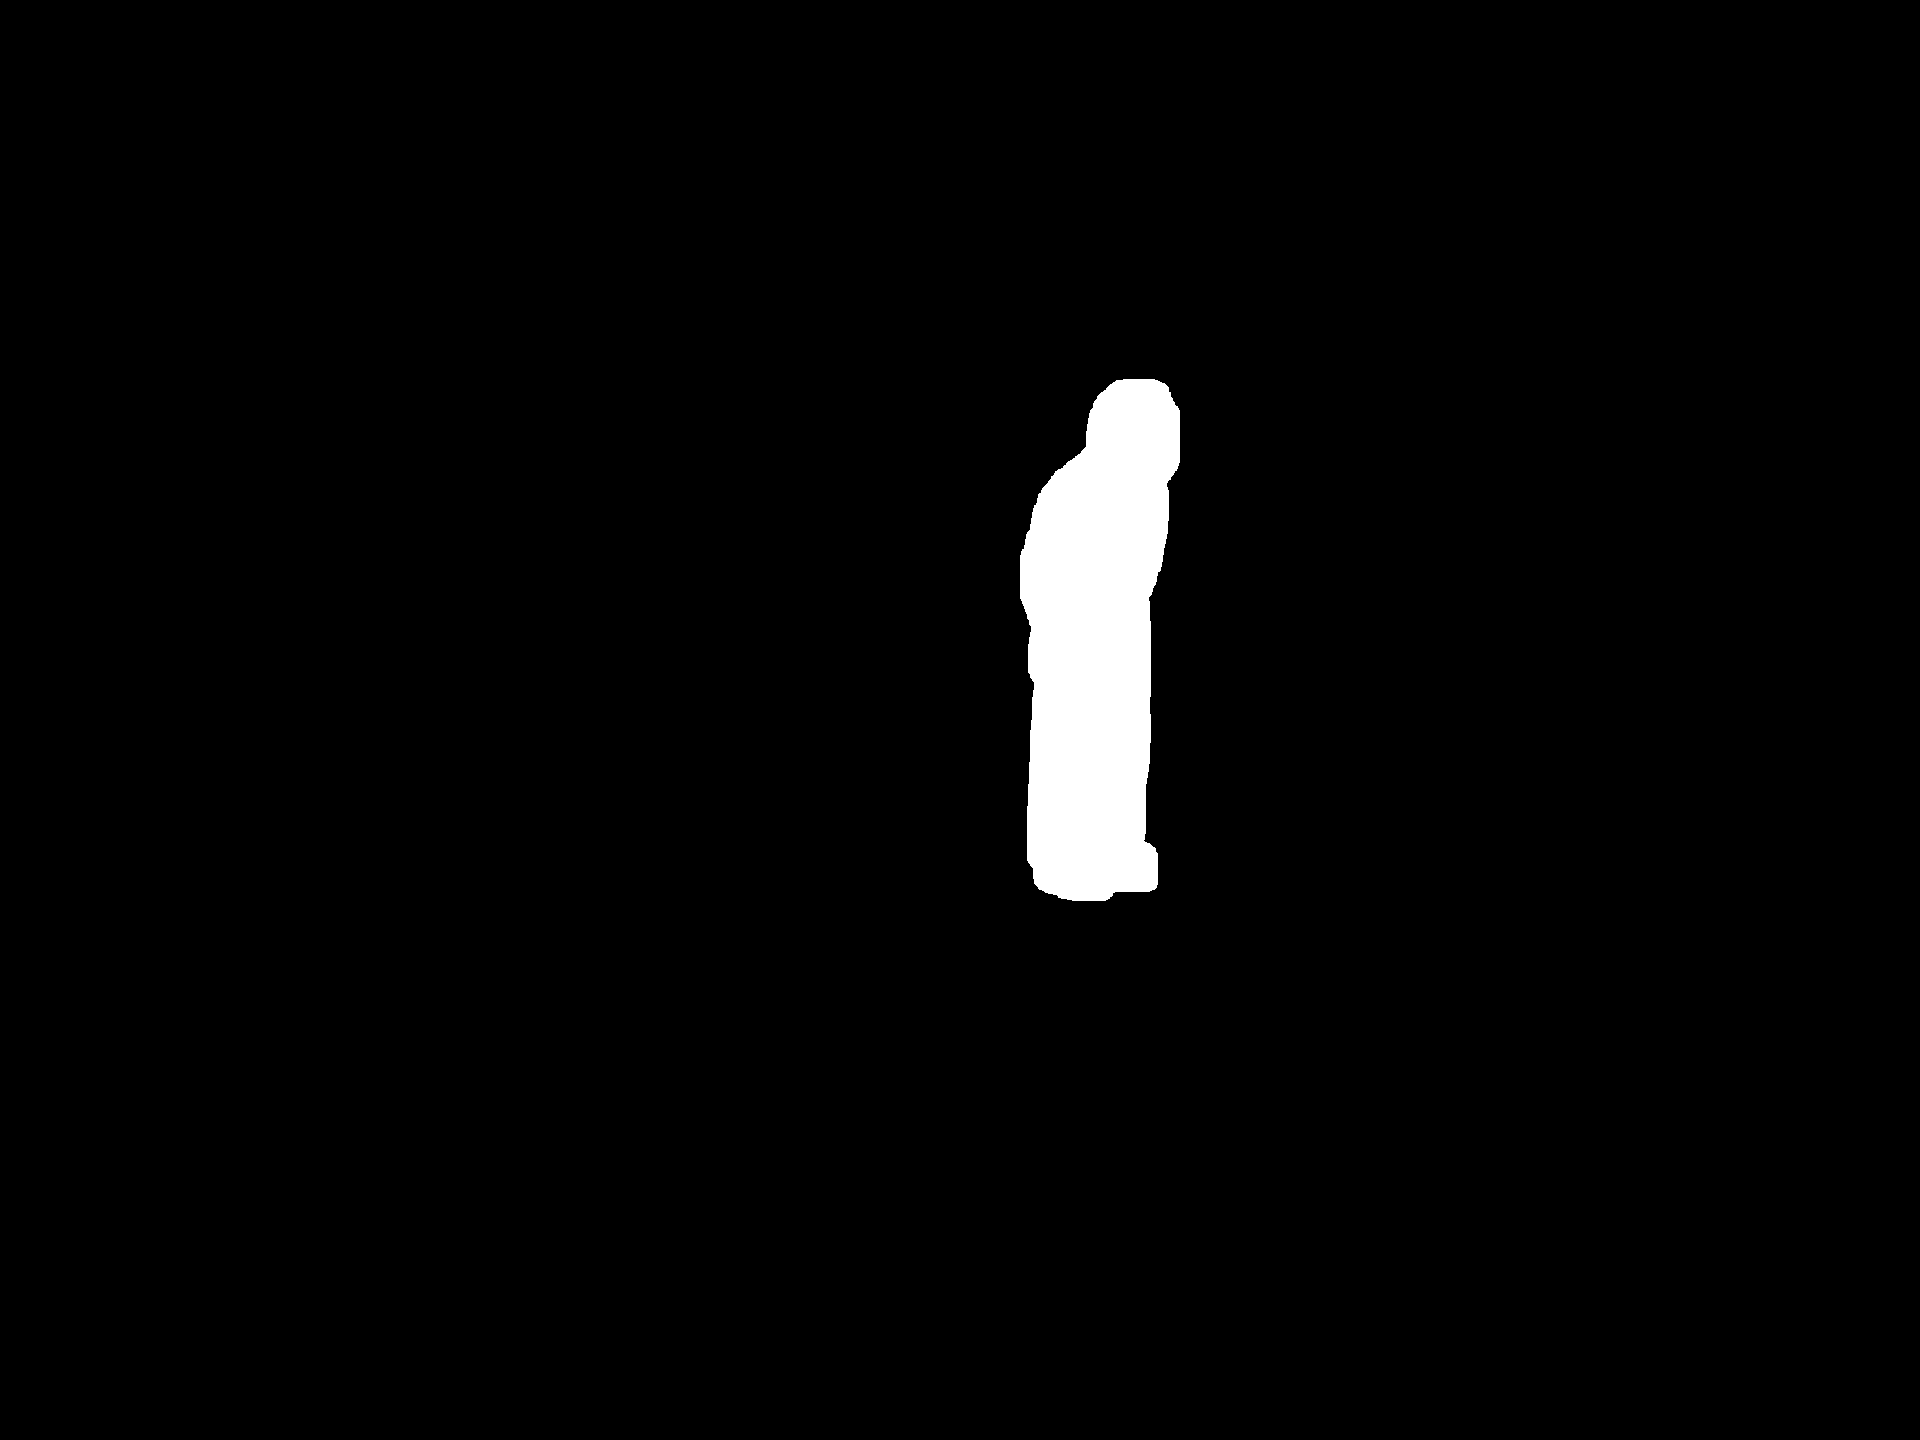
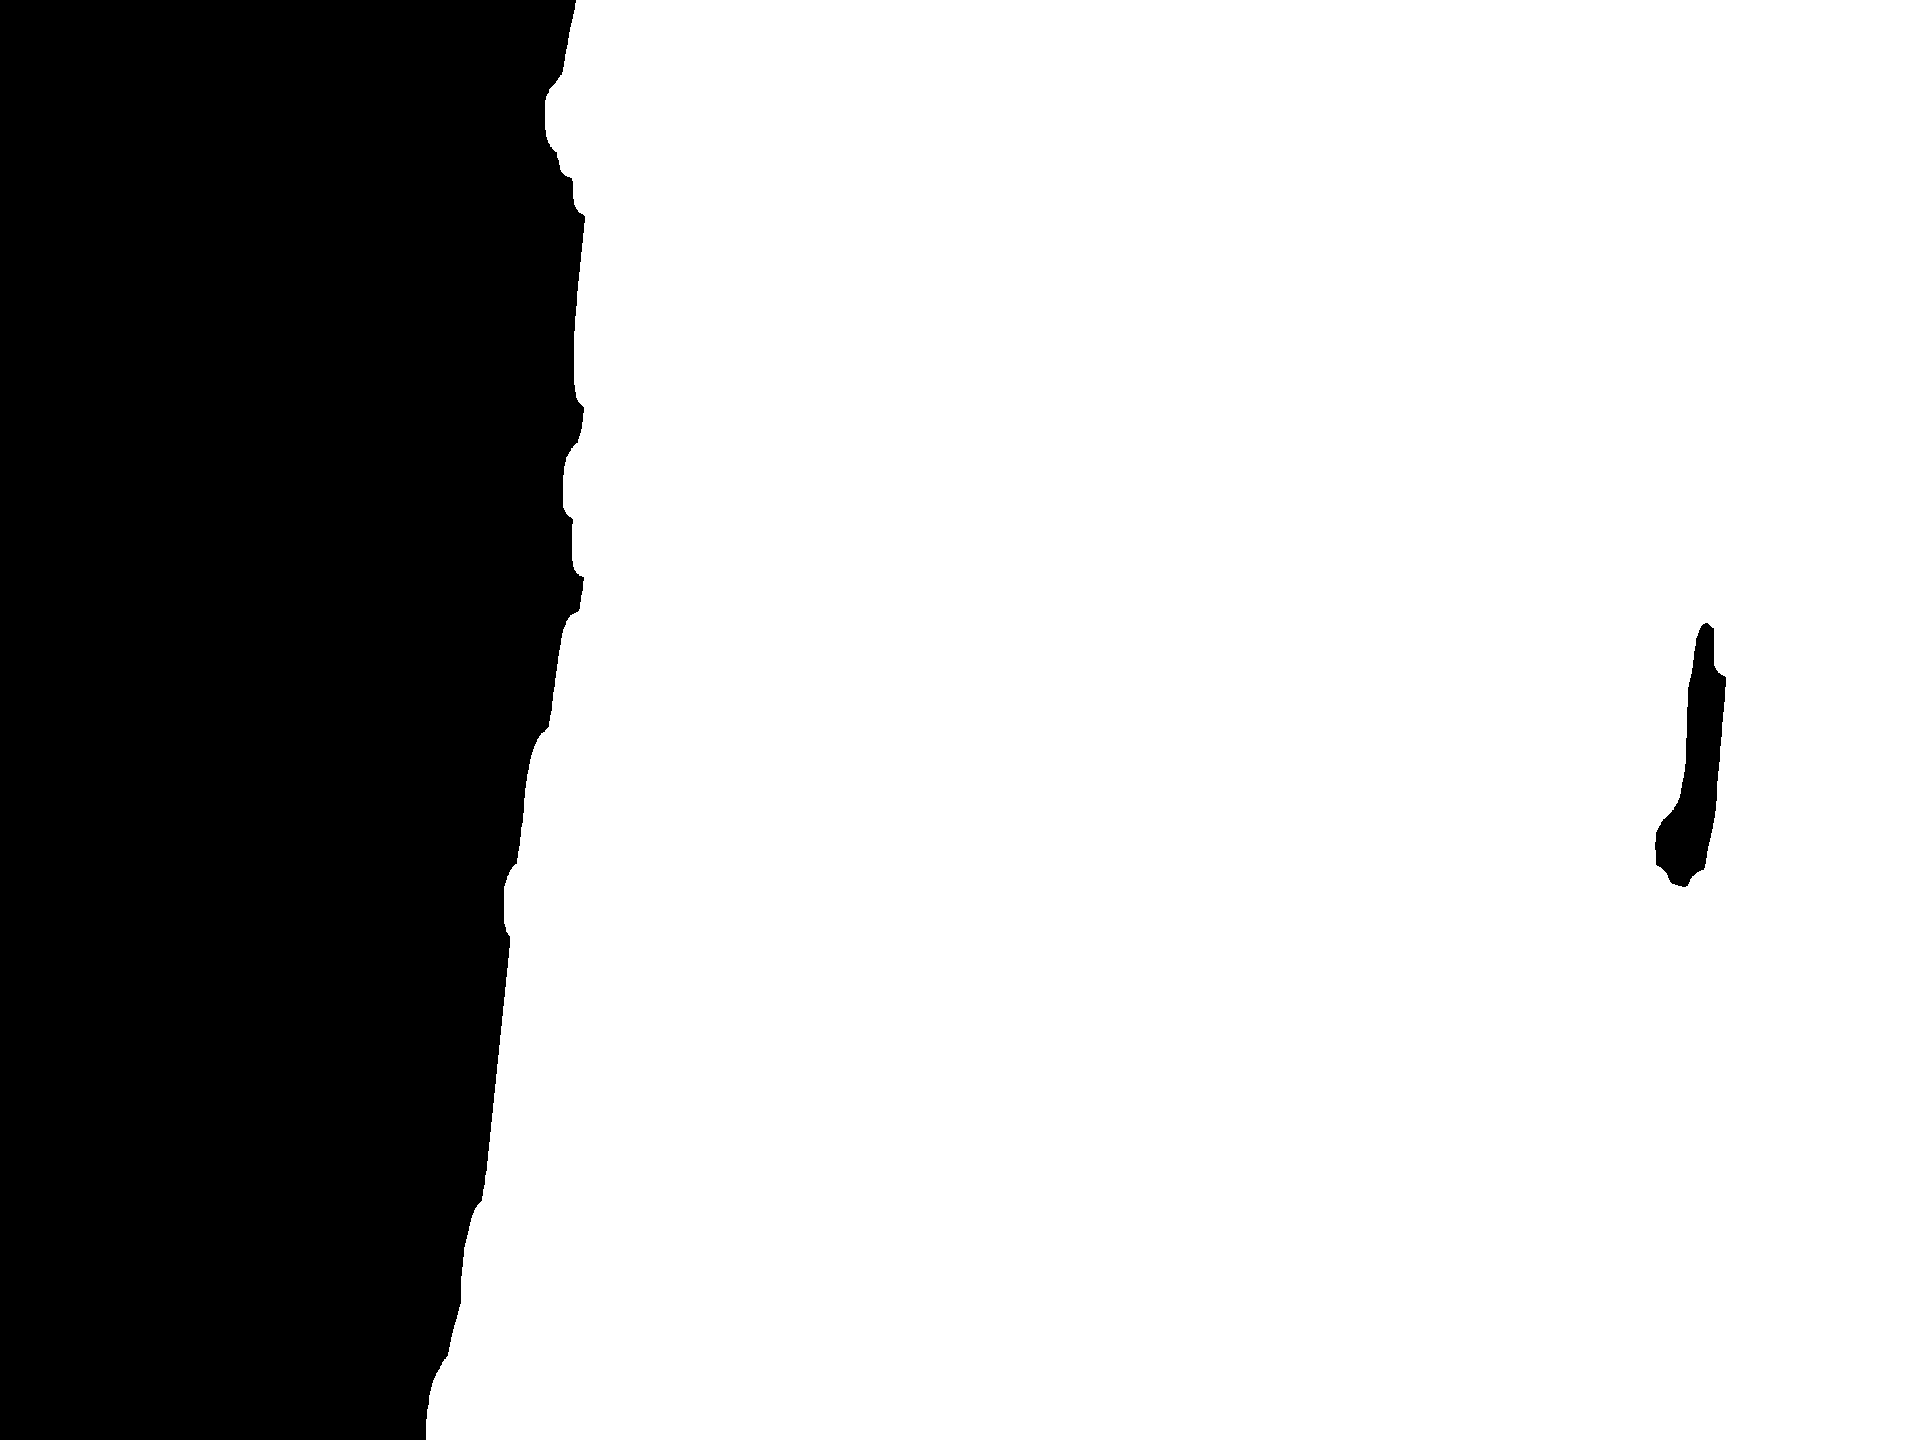
background filling classical method
added some functions and some results

diff --git a/module.py b/module.py
@@ -96,20 +96,81 @@ class poseDetector():
         found_frames = []
         one = 1
         zero = 0
+        condition = masked_image == (0,0, 255)
+        c = np.sum(condition.astype(int), 2)
+        c = np.where(c == 3, 1, 0)
+        # print(f"c: {np.sum(c)}")
+
+        # print(c.shape, c)
+        
         for i in range(1,len(list_names)+1):    
             img = cv2.imread('./data/frames_masked/masked' + str(i).zfill(3) + '.png')
-            condition = masked_image == (0,0, 255)
-            # print(condition)
-            a = img*condition
-            # print("                                              ",a)
-            if (a == [0,0,255]).any():
-                print("skipping image masked"+str(i).zfill(3) + '.png')
+            condition_img = img == (0,0, 255)
+            c_img = np.sum(condition_img.astype(int), 2)
+            c_img = np.where(c_img == 3, 1, 0)
+            # print(f"c_img: {np.sum(c_img)}")
+
+            # print(c_img.shape, c_img)
+            
+            result = np.sum(np.multiply(c, c_img))
+
+            if result > 0:
+                # print("skipping image masked"+str(i).zfill(3) + '.png')
                 found_frames.append(zero)
                 continue
             else:
-                print("                               found background in frame masked"+str(i).zfill(3) + '.png')
+                # print("                               found background in frame masked"+str(i).zfill(3) + '.png')
                 found_frames.append(one)
                 found_frames_list.append(i)
+
+            # mask1 = condition[:, :, 0].astype(int)
+            # print(mask1)
+            # print(condition)
+            # a = img*condition
+            # print("                                              ",a.reshape(-1).shape)
+            # condition2= img == (0,0,255)
+            # print(condition.shape, condition2.shape)
+            # combine = condition.all() and condition2.all()
+            # if combine.any() == True:
+            #     print("skipping image masked"+str(i).zfill(3) + '.png')
+            #     found_frames.append(zero)
+            #     continue
+            # else:
+            #     print("                               found background in frame masked"+str(i).zfill(3) + '.png')
+            #     found_frames.append(one)
+            #     found_frames_list.append(i)
+
+
+
+
+
+            # count = 0
+            # for i in range(img.shape[0]*img.shape[1]*img.shape[2]):
+            #     if (a.reshape(-1)[i] == [0,0,255]).all():
+            #         count +=1
+            # print(count)
+            
+                
+            # for l in range(a.shape[0]):
+            #     for k in range(a.shape[1]):
+            #         if (a[l][k] == [0,0,255]).all():
+            #             count +=1
+            #             # print("skipping image masked"+str(i).zfill(3) + '.png')
+            #             # found_frames.append(zero)
+            #             # continue
+            #         # else:
+            #             # print("                               found background in frame masked"+str(i).zfill(3) + '.png')
+            #             # found_frames.append(one)
+            #             # found_frames_list.append(i)
+            # print(count)
+            # if count ==0:
+            #     print("                               found background in frame masked"+str(i).zfill(3) + '.png')
+            #     found_frames.append(one)
+            #     found_frames_list.append(i)
+            # else:
+            #     print("skipping image masked"+str(i).zfill(3) + '.png')
+            #     found_frames.append(zero)
+
         return(found_frames, found_frames_list)
 
 
@@ -124,6 +185,32 @@ class poseDetector():
         Output
         1) filled_image: image with background filled in the region of interest
         '''
+        condition = image == (0,0, 255)
+        c = np.sum(condition.astype(int), 2)
+        c = np.where(c == 3, 1, 0)
+        print(c.shape)
+        cinv = np.where(c == 3, 0, 1)
+        c =np.stack((c,c,c), axis=-1)
+        print(c.shape)
+        cinv =np.stack((cinv,cinv,cinv), axis=-1)
+        image_without_target = image*cinv
+        image_without_target = image_without_target.astype(np.uint8)
+        list_bg_images =[]
+
+        j = frames_with_background[0]
+        img = cv2.imread('./data/frames_masked/masked' + str(j).zfill(3) + '.png')
+        filled_img = img*c
+        filled_img = filled_img.astype(np.uint8)
+        # for i in range(0,len(frames_with_background), 10):
+        #     print(i)
+        #     j = frames_with_background[i]
+        #     img = cv2.imread('./data/frames_masked/masked' + str(j).zfill(3) + '.png')
+        #     background_filled = img*c
+        #     list_bg_images.append(background_filled.astype(np.uint8))
+        # filled_img = np.mean(list_bg_images, axis=0).astype(np.uint8)
+        final_img = (filled_img+image_without_target).astype(np.uint8)
+        return final_img, image_without_target, list_bg_images, filled_img
+
         
     def findPosition(self, img, draw=True):
         self.lmList = []
@@ -174,35 +261,45 @@ def main():
         while True:
             success, img = cap.read()
             img, annotated_image, masked_image, masked_image_,masked_image_eroded, masked_image_black = detector.findPose(img)
-            # frames_list, frame_with_background = detector.find_frame_with_background(masked_image_eroded)
-            # print("###########################################################################################")
-            # print(frames_list, frame_with_background)
+            if i%50 == 0:   
+                print("getting frames for background ............")
+                frames_list, frame_with_background = detector.find_frame_with_background(masked_image_eroded)
+                print("##########################  number of background frames is  ###################################")
+                print( len(frame_with_background))
+                final_img, image_without_target, list_bg_images, filled_img = detector.fill_background(masked_image_eroded , frame_with_background)
+                cv2.imshow("filled image", final_img)
+                cv2.imshow("image without target", image_without_target)
+                cv2.imshow("filled_img", filled_img)
+                # cv2.imshow("list_bg_images", list_bg_images[0])
+                cv2.imwrite('./data/filled_background/filled' + str(i).zfill(3) + '.png', final_img)
+
             
             lmList = detector.findPosition(img, draw=False)
-            xlist = []
-            ylist = []
-            name = []
+            
             # print(lmList)
             
-            if len(lmList) != 0:
+            # if len(lmList) != 0:
 
-                header = [
-                            'masked'+ str(i).zfill(3) + '.png: ',
-                            '[' + str(lmList[0][1])  +', '+ str(int((lmList[11][1]+lmList[12][1])/2))    +', '+ str(lmList[12][1]) +', ' 
-                                + str(lmList[14][1]) +', '+ str(lmList[16][1]) +', '+ str(lmList[11][1]) +', '+ str(lmList[13][1]) +', ' 
-                                + str(lmList[15][1]) +', '+ str(lmList[24][1]) +', '+ str(lmList[26][1]) +', '+ str(lmList[28][1]) +', '
-                                + str(lmList[23][1]) +', '+ str(lmList[25][1]) +', '+ str(lmList[27][1]) +', '+ str(lmList[2][1])  +', '
-                                + str(lmList[5][1])  +', '+ str(lmList[7][1])  +', '+ str(lmList[8][1])  + ']: ',
-                            '[' + str(lmList[0][2])  +', '+ str(int((lmList[11][2]+lmList[12][2])/2))    +', '+ str(lmList[12][2]) +', ' 
-                                + str(lmList[14][2]) +', '+ str(lmList[16][2]) +', '+ str(lmList[11][2]) +', '+ str(lmList[13][2]) +', ' 
-                                + str(lmList[15][2]) +', '+ str(lmList[24][2]) +', '+ str(lmList[26][2]) +', '+ str(lmList[28][2]) +', '
-                                + str(lmList[23][2]) +', '+ str(lmList[25][2]) +', '+ str(lmList[27][2]) +', '+ str(lmList[2][2])  +', '
-                                + str(lmList[5][2])  +', '+ str(lmList[7][2])  +', '+ str(lmList[8][2])  + ']'  
-                            ]
+            #     header = [
+            #                 'masked'+ str(i).zfill(3) + '.png: ',
+            #                 '[' + str(lmList[0][1])  +', '+ str(int((lmList[11][1]+lmList[12][1])/2))    +', '+ str(lmList[12][1]) +', ' 
+            #                     + str(lmList[14][1]) +', '+ str(lmList[16][1]) +', '+ str(lmList[11][1]) +', '+ str(lmList[13][1]) +', ' 
+            #                     + str(lmList[15][1]) +', '+ str(lmList[24][1]) +', '+ str(lmList[26][1]) +', '+ str(lmList[28][1]) +', '
+            #                     + str(lmList[23][1]) +', '+ str(lmList[25][1]) +', '+ str(lmList[27][1]) +', '+ str(lmList[2][1])  +', '
+            #                     + str(lmList[5][1])  +', '+ str(lmList[7][1])  +', '+ str(lmList[8][1])  + ']: ',
+            #                 '[' + str(lmList[0][2])  +', '+ str(int((lmList[11][2]+lmList[12][2])/2))    +', '+ str(lmList[12][2]) +', ' 
+            #                     + str(lmList[14][2]) +', '+ str(lmList[16][2]) +', '+ str(lmList[11][2]) +', '+ str(lmList[13][2]) +', ' 
+            #                     + str(lmList[15][2]) +', '+ str(lmList[24][2]) +', '+ str(lmList[26][2]) +', '+ str(lmList[28][2]) +', '
+            #                     + str(lmList[23][2]) +', '+ str(lmList[25][2]) +', '+ str(lmList[27][2]) +', '+ str(lmList[2][2])  +', '
+            #                     + str(lmList[5][2])  +', '+ str(lmList[7][2])  +', '+ str(lmList[8][2])  + ']'  
+            #                 ]
 
                 # write the header
                 # writer.writerow(header)
-
+            '''
+                # xlist = []
+                # ylist = []
+                # name = []
                 # name.append("masked"+ str(i).zfill(3) + '.png')
                 # # nose
                 # xlist.append(lmList[0][1])
@@ -258,14 +355,16 @@ def main():
                 # #Rear
                 # xlist.append(lmList[8][1])
                 # ylist.append(lmList[8][2])
-
+            '''
 
 
 
 
 
                 # print(lmList[14])
-                # cv2.circle(img, (lmList[14][1], lmList[14][2]), 15, (0, 0, 255), cv2.FILLED)
+                # a = [0,11,12,14,16,13,15,24,26,28,23,25,27,2,5,7,8]
+                # for i in a:
+                #     cv2.circle(img, (lmList[i][1], lmList[i][2]), 5, (255, 0, 255), cv2.FILLED)
             # cTime = time.time()
             # fps = 1 / (cTime - pTime)
             # pTime = cTime
@@ -282,7 +381,7 @@ def main():
             # cv2.imwrite('./data/frames_masked/masked' + str(i).zfill(3) + '.png', masked_image_eroded)
             # cv2.imwrite('./data/frames_with_pose/annotated' + str(i).zfill(3) + '.png', annotated_image)
             # cv2.imwrite('./data/frames_all_pose/annotated' + str(i).zfill(3) + '.png', img)
-            cv2.imwrite('./data/frames_black_white/mask' + str(i).zfill(3) + '.png', masked_image_black)
+            # cv2.imwrite('./data/frames_black_white/mask' + str(i).zfill(3) + '.png', masked_image_black)
             i+=1
             cv2.waitKey(1)
 
